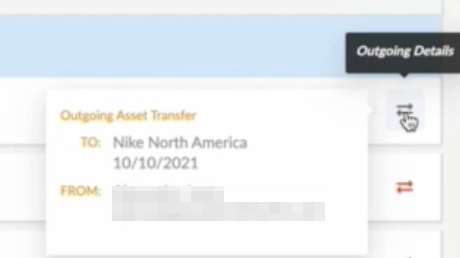
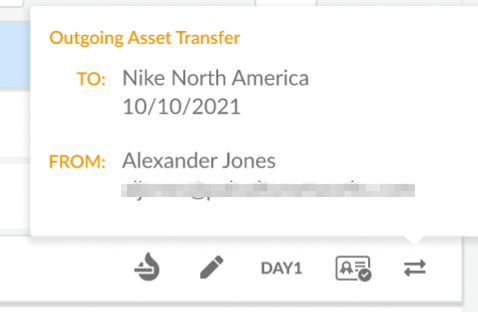
better images, testimonials contd

diff --git a/README.md b/README.md
@@ -138,9 +138,9 @@ pie
 
 **Popover Samples:** Incoming, Outgoing, and Rejected
 
-| ![image-20220317231604081](_markdown_assets/images/image-20220317231604081-7584316.png) | ![image-20220317231731005](_markdown_assets/images/image-20220317231731005-7584327.png) |
+| <img src="_markdown_assets/images/image-20220319084702253.png" alt="image-20220319084702253" style="zoom:67%;" /> | <img src="/Users/karlgolka/PROJECTS/FYI/_typora_images/image-20220319084829923.png" alt="image-20220319084829923" style="zoom:67%;" /> |
 | ------------------------------------------------------------ | ------------------------------------------------------------ |
-| ![image-20220317231925933](_markdown_assets/images/image-20220317231925933.png) | ![image-20220317231958141](_markdown_assets/images/image-20220317231958141.png) |
+| <img src="/Users/karlgolka/PROJECTS/pan-code-samples/_markdown_assets/images/image-20220319084932623.png" alt="image-20220319084932623" style="zoom:67%;" /> | <img src="_markdown_assets/images/image-20220317231958141.png" alt="image-20220317231958141" style="zoom:87%;" /> |
 
 
 
@@ -152,7 +152,15 @@ pie
 
 
 
+## 📝 Sample Design Documents
 
+Fragment from a `Hi-Level Design Doc` of all Asset Transfer workflows, helping to illustrate clearly:
+
+* `Source` VS `Destination` users
+* which MFE the action or event occurs in, i.e. ⏸ **`CPT`** VS 🛡 **`NS`** 
+* and current limitations (`FUTURE ENHANCEMENTS`)
+
+![image-20220319081815248](/Users/karlgolka/PROJECTS/FYI/_typora_images/image-20220319081815248.png)
 
 
 
@@ -265,6 +273,7 @@ pie
 - [ ] no more prettier sheesh! introduced husky
 - [ ] VSCode extensions, chrome extensions, see MBP cheatsheet
 - [ ] husky & the DISABLE_PRETTIER flag (before that, each time a developer would save their file, the prettier auto-format would run, losing their place on the screen, un-folding all folded code, and causing all sorts of other headaches)
+- [ ] using [loom](https://www.loom.com/) videos to quickly and easily communicate status updates on features, and much more
 
 
 
@@ -296,7 +305,7 @@ Created momentum, enthusiasm, and consensus on future architectural decisions an
 
 Introduced:
 
-- proper epic and story Acceptance Criteria
+- proper Acceptance Criteria
 - epic kick-offs (w/ design-docs for medium-to-hard stories)
 - post-mortems
 - 1-on-1s 
@@ -306,14 +315,18 @@ Introduced:
 Guided project management on:
 
 - [ ] having Retros at end of sprint instead of during sprint
+- [ ] NOT re-defining Stand-ups (they wanted to change them to be normalized around features instead of team members)
 - [ ] splitting FE from BE in stand-ups
 - [ ] de-coupling FE from BE in stories (separate integration stories)
 - [ ] keeping stand-ups short, using call-outs in JIRA and slack, and leaning out amount of meetings
 - [ ] how to switch from Visual to Text editing mode
 - [ ] how to use markdown auto-outlining syntax
 - [ ] what is an epic, how to write Acceptance Criteria, etc.
+- [ ] how to attach images inline (and not at bottom) of description
+- [ ] how to insert markdown tables and formatted code blocks
 - [ ] benefits of markdown, mocking API servers, creating sub-tasks (of stories), linking issues, sharing Postman collections, and more
 - [ ] lessening the amount of meetings (amount was affecting the team's development productivity)
+- [ ] guidance on ceremonies: when and how to have/do Sprint Planning
 
 
 
@@ -389,46 +402,69 @@ graph TD
 
 
 
+### My "JIRA Process" 
 
+From a FE Perspective:
+
+```mermaid
+graph TD
+      A(("🎽 Start with an EPIC")) --> B("🏋♀Medium-to-hard sprint points need a short DESIGN DOC")
+      B --> |"🎨 UI/UX Figma, prototypes, hand-offs"| C("📌 `PIN POINTS` mapping each endpoint to UI/UX")
+      C --> D("📬 POSTMAN  endpoints, payloads, etc.")
+      D ==> |if design doc exists| E{"🖋 Team sign-off on design doc"}
+      E --> |Assign to team members| F("🪓  Break into STORIES, write full AC/requirements, weigh points")
+      F --> |FE, BE, PROXY, INTEGRATION stories| G("🖨 Clone stories as needed for team")
+      G --> |Use JIRA templates I provided| GG("🔪 Break stories into SUB-TASKS, if needed")
+      GG --> |"🗣 Shout-outs on any blockers"| H("👷♂👷♀ Development work ...🚧")
+      H --> |Finalize any stubbed-out Postman endpoints| GG
+```
 
 
 
 # Testimonials & Feedback
 
-Staff Engineer, Direct Supervisor
+`Mazen Ghalayini` — Staff React Engineer, Direct Supervisor ([LinkedIn](https://www.linkedin.com/in/mazen-g-a76139179/), mghalayini@paloaltonetworks.com)
+
+`Hanford Choy` — Non-Technical Project Manager (hchoy@paloaltonetworks.com)
+
+`Alexander Jones` — Team Head Designer ([LinkedIn](https://www.linkedin.com/in/alexander-jones7/), aljones@paloaltonetworks.com)
+
+`Palak Mehrotra` — Senior Software Engineer ([LinkedIn](https://www.linkedin.com/in/palakmehrotra/))
 
 
 
+### Feedback after First Demo 
 
-
-### Feedback after First Demo  `FRI Jan 21`:
+ `Jan 21, 2022` (*from #slack*)
 
 | <img src="_markdown_assets/images/image-20220318155554872-7645128.png" alt="image-20220318155554872" style="zoom:67%;" /> | ![5lp](_markdown_assets/images/5lp.gif) |
-| ------------------------------------------------------------ | ------------------------------------------------------------ |
+| ------------------------------------------------------------ | --------------------------------------- |
 
 
 
 ### Feedback from Project Management
 
-> "I don't want you to quit" — *Hanford Choy*, PM
->
-> "BTW, I gave you the most exciting feature that I believe will be used by a lot of customers :)."  — *Hanford Choy*, PM
+![image-20220204103203505](_markdown_assets/images/image-20220204103203505-7703951.png)
+
+> "BTW, I gave you the most exciting feature that I believe will be used by a lot of customers :)."  — *Hanford Choy*,  `Feb 1, 2022`
 
 
 
 ### Feedback from Supervising Staff Engineers
 
-> "You're doing great!" — *Mazen Ghalayini* `Feb 15, 2022`
+> "You're doing great!" [<u>re</u>: performance review] — *Mazen Ghalayini* `Feb 15, 2022`
 >
-> "...you know, also, we lost a lot of people, we're kind of under siege from [a lot of directions]... so yeah, I think your suggestion is a good one that we need to try..."  [re: to do a POC using GraphQL] — *Vish Ramamurthy*,  `Feb 23, 2022`
-
-
+> "Alright, let's give it a shot and see how that works!" [<u>re</u>: creating a shared Postman collection between FE and BE teams]
+>
+> — *Mazen Ghalayini*,  `Feb 22, 2022`
+>
+> "...you know, also, ... we're kind of under siege from [a lot of directions]... so yeah, I think your suggestion is a good one that we need to try..."  [<u>re</u>: to do a backend POC using GraphQL] — *Vish Ramamurthy*,  `Feb 23, 2022`
 
 
 
 ### Feedback from Designer
 
-> "You're selling it, that's exactly what I'm looking for!" [re: toasts, popover messaging, and row highlighting proposals] 
+> "You're selling it, that's exactly what I'm looking for!" [re: toast notifications, popover messaging, and row highlighting proposals] 
 >
 > — *Alexander Jones* `Feb 23, 2022`
 
@@ -436,7 +472,7 @@ Staff Engineer, Direct Supervisor
 
 ### Feedback from BE Team
 
-> "I agree with Karl, actually." [re: Big Query vs MySQL confusion on Asset Transfer] — *Palak Mehrotra* `Feb 23, 2022`
+> "I agree with Karl, actually." [<u>re</u>: my clarifying Big Query vs MySQL confusion on Asset Transfer epic] — *Palak Mehrotra* `Feb 23, 2022`
 
 
 
@@ -468,8 +504,6 @@ Staff Engineer, Direct Supervisor
 
 - [ ] Show Alex's: `all good questions` from [JIRA pic](ALEX-2-Screen Shot 2022-02-14 at 2.15.29 PM.png)
 
-- [ ] ![image-20220316175533444](/Users/karlgolka/PROJECTS/FYI/_typora_images/image-20220316175533444.png)
-
   
 
 # 🗣 Testimonials / Feedback
@@ -495,4 +529,90 @@ Staff Engineer, Direct Supervisor
 
 
 
+
+# ⏳ Reasons for Transition
+
+- [ ] Hanford / pm and "we decided to re-define what an epic is: an epic is a sub-task now"
+- [ ] BE and PM dysfunction with no hope of course-correction in any reasonable amount of time
+- [ ] Mazen Ghalayini (things like his code for incrementally refactoring from pixels to rem):
+
+```js 
+// file: /src/utils/units.js
+
+// EXAMPLE USAGE: `padding: ${units[30]};`
+
+// 🔴 BEFORE:       
+export default {
+    0: '0',
+    1: '1px',
+    2: '2px',
+    3: '3px',
+    4: '4px',
+    6: '6px',
+    7: '7px',
+    8: '8px',
+    9: '9px',
+    10: '10px',
+    11: '11px',
+    12: '12px',
+    14: '14px',
+    15: '15px',
+    16: '16px',
+    17: '17px',
+    18: '18px',
+    20: '20px',
+    22: '22px',
+    24: '24px',
+    25: '25px',
+    28: '28px',
+    29: '29px',
+    30: '30px',
+    32: '32px',
+    33: '33px',
+    35: '35px',
+    36: '36px',
+    40: '40px',
+    44: '44px',
+    48: '48px',
+    56: '56px',
+    64: '64px',
+    72: '72px',
+    76: '76px',
+    80: '80px',
+    96: '96px',
+    112: '112px',
+    128: '128px',
+    144: '144px',
+    160: '160px',
+    168: '168px',
+    176: '176px',
+    184: '184px',
+    192: '192px',
+    208: '208px',
+    222: '222px',
+    224: '224px',
+    240: '240px',
+    250: '250px',
+    255: '255px',
+    256: '256px',
+    270: '270px',
+    288: '288px',
+    320: '320px',
+    350: '350px',
+    450: '450px',
+    384: '384px',
+    541: '541px',
+  
+  	// 🔴 etc... so if a you, for example, needed a width of 542px or a line-height of 31px in a MFE, you had to go here and add that line explicitly, and re-link the repo so you could use it in a MFE
+};
+
+// ✅ AFTER: 
+// I proposed refactoring this file to a function instead of a never-ending object map, like so:
+const remCalc = (pixelValue) => {
+   // for now: 
+   return pixelValue === 0 ? '0' : `'${value}px'`;
+   // then later: pixelValue / x = rems ...
+   // and much later: just use rems ... (once legacy ASP.NET CSS issue refactored)
+};
+```
 
